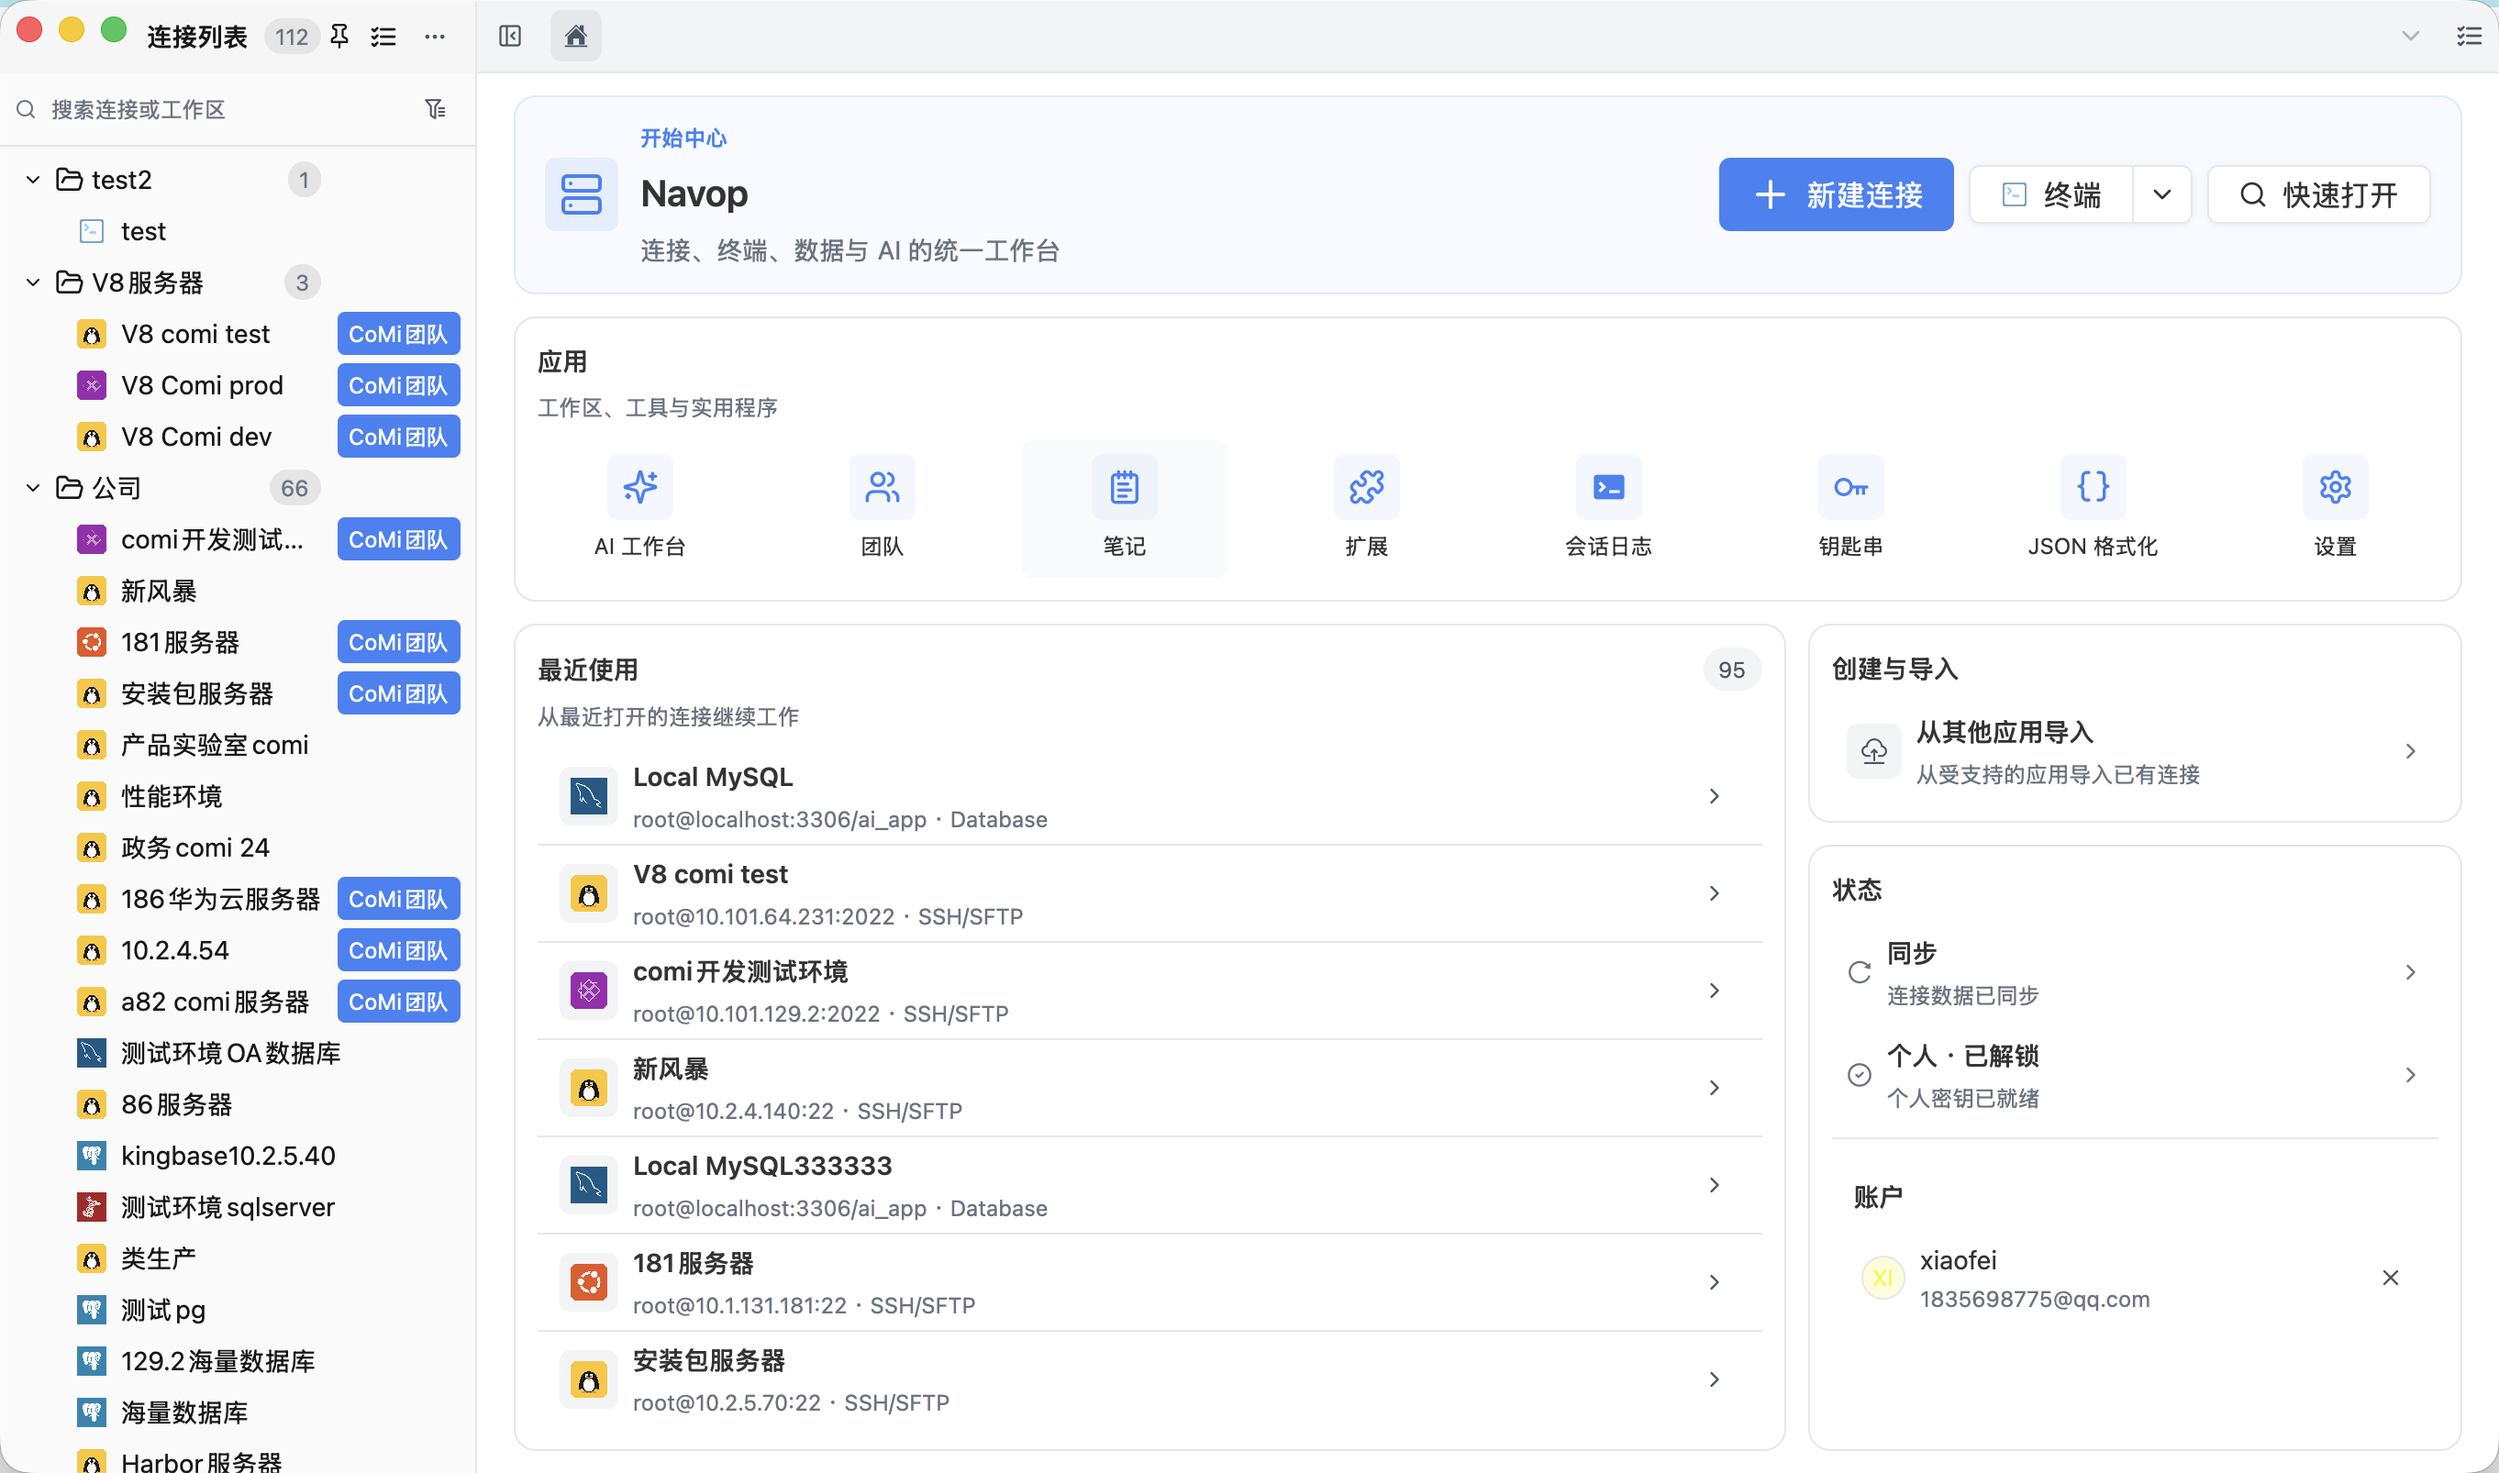
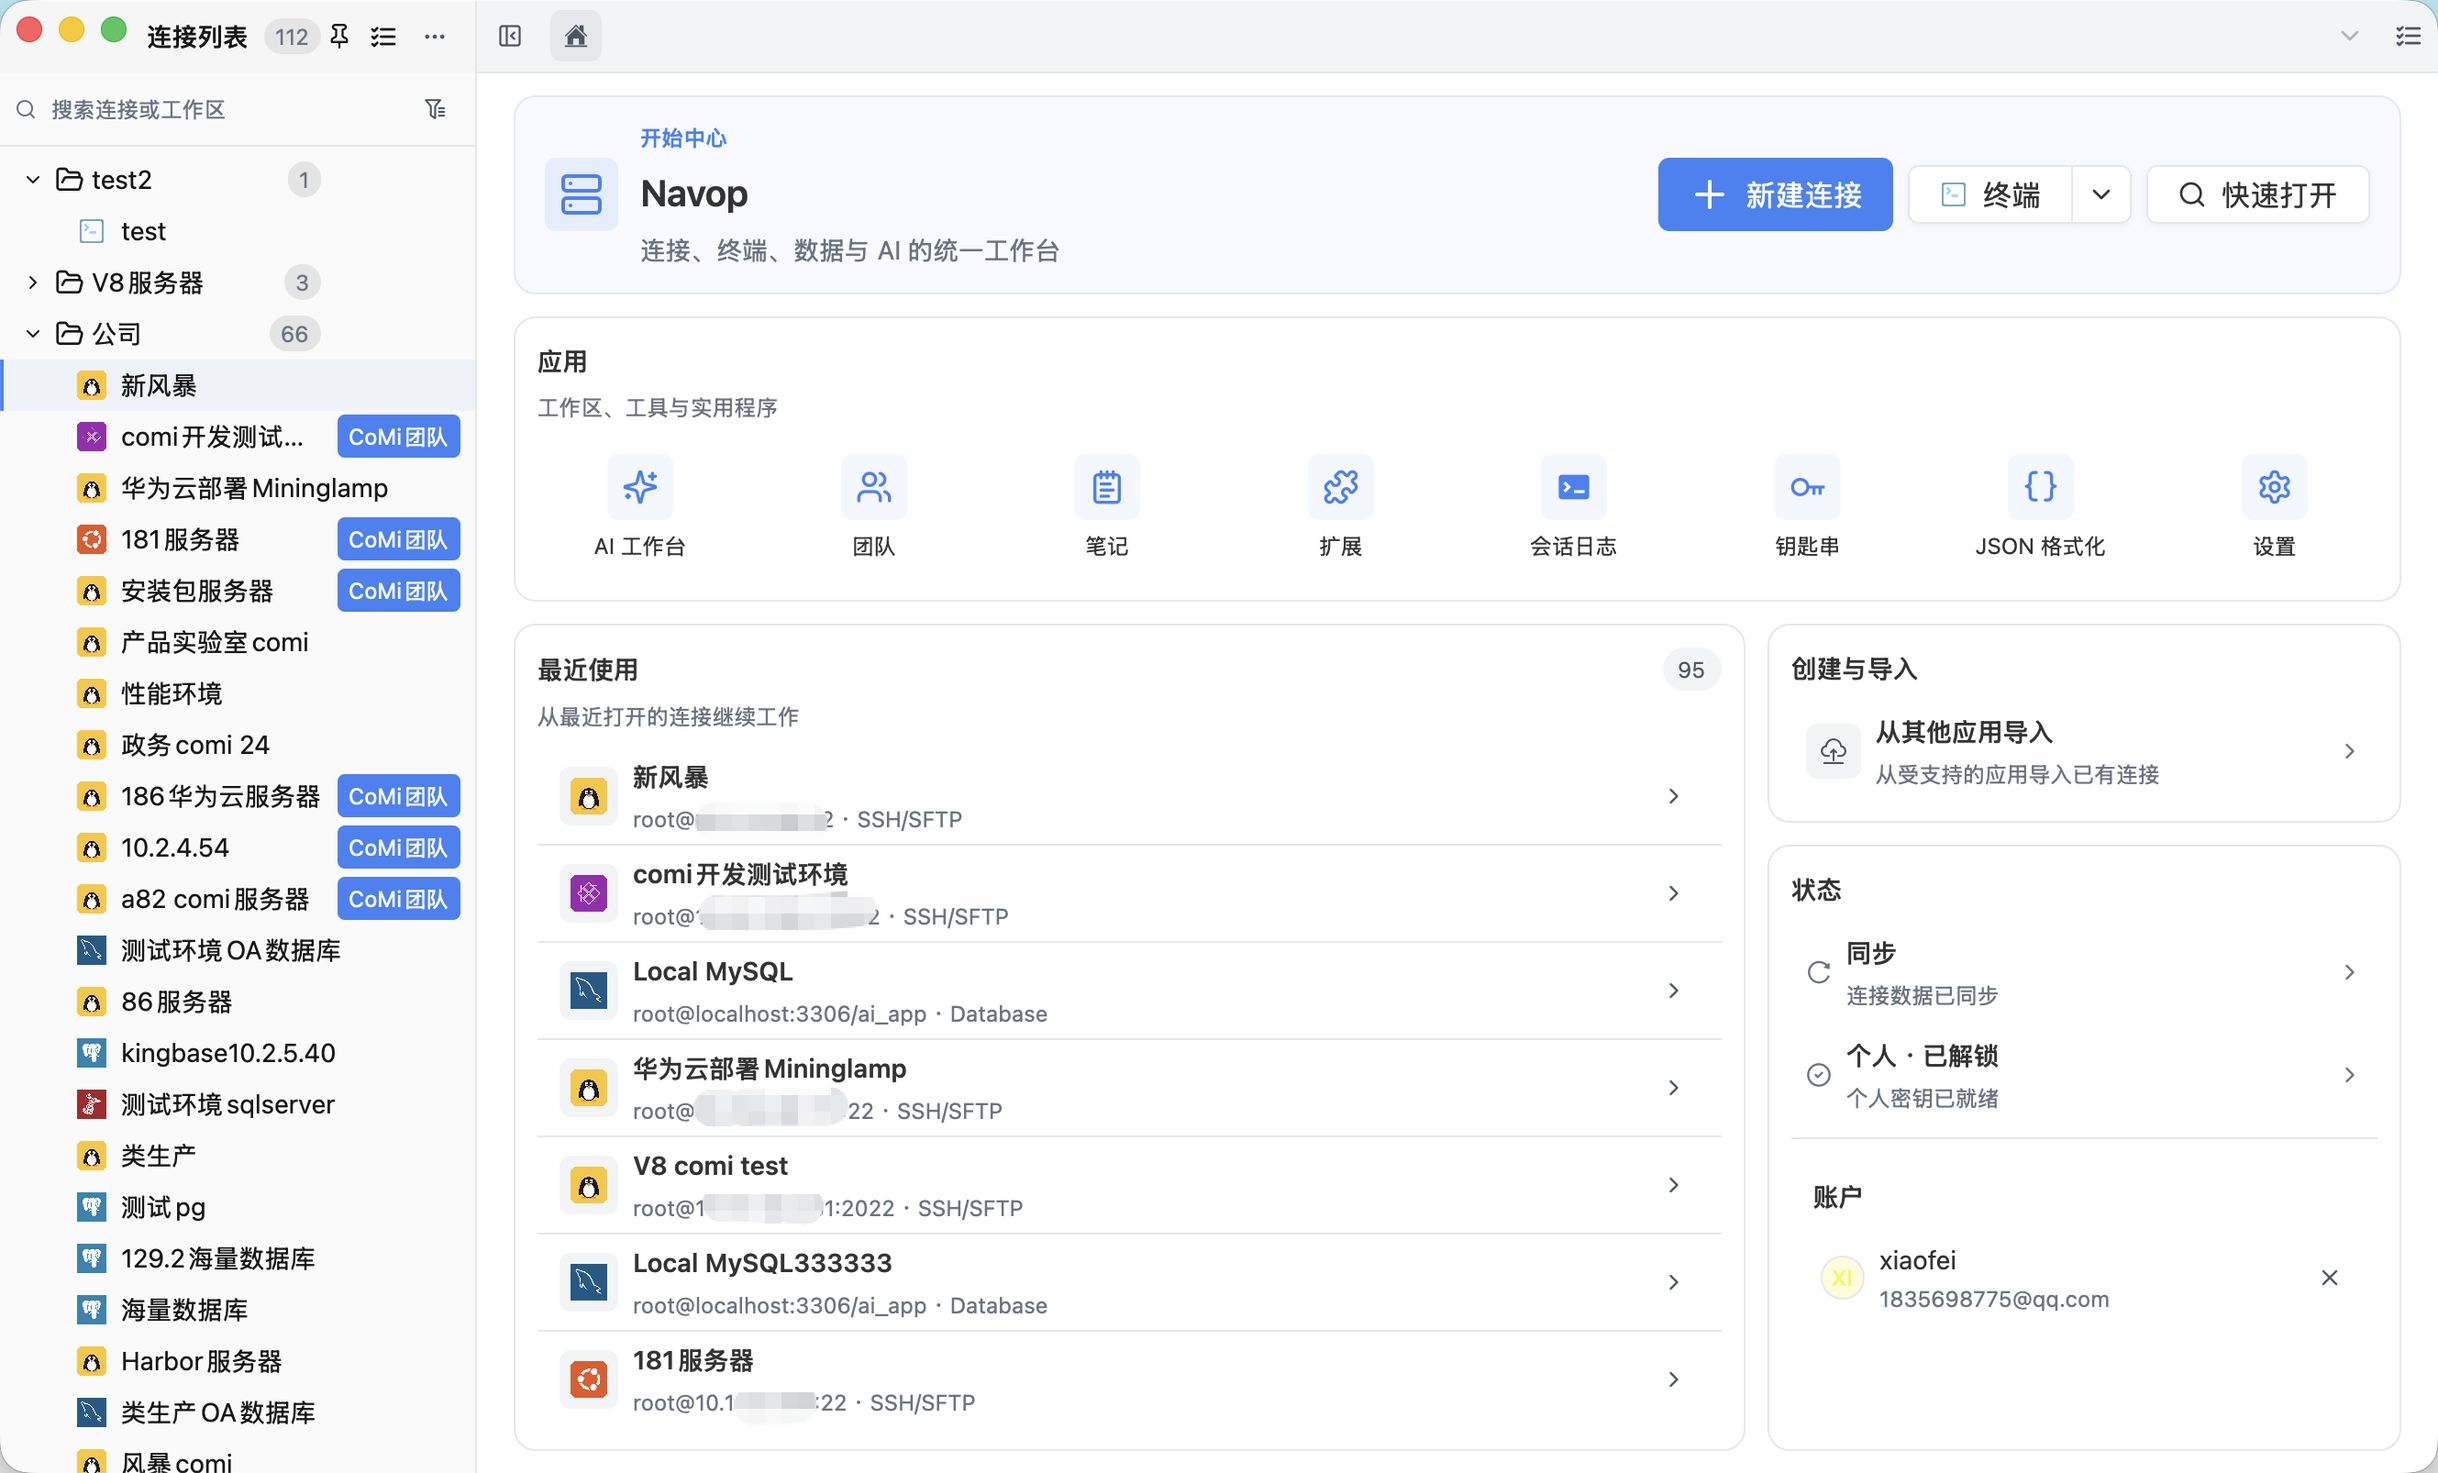
docs(readme): add workspace overview screenshot and refresh hero images
- README/README_CN 截图表格顶部新增 app1.png 工作台总览行
- 更新 app.png/app1.png 为最新应用截图
- 修正中文 README 中 SecureCRT 会话导入的错误翻译

diff --git a/README_CN.md b/README_CN.md
@@ -46,7 +46,7 @@
     <a href="CONTRIBUTING.md">参与贡献</a>
   </p>
 
-  <p><img src="app1.png" alt="Navop 概览" width="820" /></p>
+  <p><img src="app.png" alt="Navop 概览" width="820" /></p>
 </div>
 
 ## 功能特性
@@ -62,7 +62,7 @@
 - 可拖拽分屏的 SSH 与本地终端，支持快捷命令、广播输入、Shell integration、会话锁定、会话录制回放和会话日志；同时支持 Telnet 与串口连接。
 - 通过 SFTP 上传下载、搜索、收藏、远程编辑、拖拽传输、ZMODEM 传输和跨服务器复制管理远程文件。
 - 可复用的本地、远程（`ssh -R`）与动态 SOCKS 端口转发；X11 转发；主机密钥变更指纹确认；可按连接启用旧版 SSH 算法。
-- 导入 SecureCRT 会话、服务器监控，以及通过扩展 provider 提供的 RDP/VNC 远程桌面。
+- 导入 SecureCRT 等外部工具的会话，进行服务器监控，并通过扩展 provider 使用 RDP/VNC 远程桌面。
 
 ### 编辑、AI 与扩展
 
@@ -92,6 +92,10 @@ navop skill install --target codex --scope user
 独立的 [`@navop/mcp`](https://github.com/feigeCode/navop-mcp) 仅用于为原生 MCP 客户端提供 stdio bridge（`npx -y @navop/mcp@latest`）。完整命令参考和客户端配置请查看 [Navop MCP 与 CLI 仓库](https://github.com/feigeCode/navop-mcp)与 [Public MCP 使用指南](https://docs.navop.dev/guide/public-mcp)。
 
 ## 应用截图
+
+| 工作台总览 |
+|:-:|
+| [![工作台总览](app1.png)](app1.png) |
 
 | 数据库 | SSH |
 |:-:|:-:|

diff --git a/README.md b/README.md
@@ -46,7 +46,7 @@
     <a href="CONTRIBUTING.md">Contributing</a>
   </p>
 
-  <p><img src="app1.png" alt="Navop overview" width="820" /></p>
+  <p><img src="app.png" alt="Navop overview" width="820" /></p>
 </div>
 
 ## Features
@@ -92,6 +92,10 @@ navop skill install --target codex --scope user
 The separate [`@navop/mcp`](https://github.com/feigeCode/navop-mcp) package is only the stdio bridge for native MCP clients (`npx -y @navop/mcp@latest`). See the [Navop MCP and CLI repository](https://github.com/feigeCode/navop-mcp) and the [Public MCP guide](https://docs.navop.dev/en-US/guide/public-mcp) for the full command reference and client configuration.
 
 ## Screenshots
+
+| Workspace |
+|:-:|
+| [![Workspace](app1.png)](app1.png) |
 
 | Database | SSH |
 |:-:|:-:|
